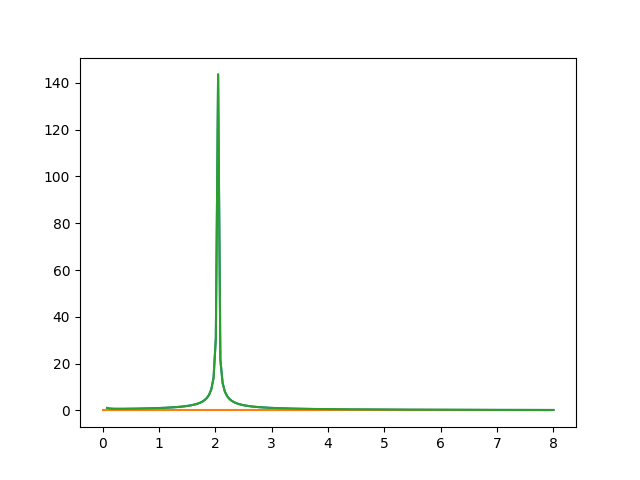
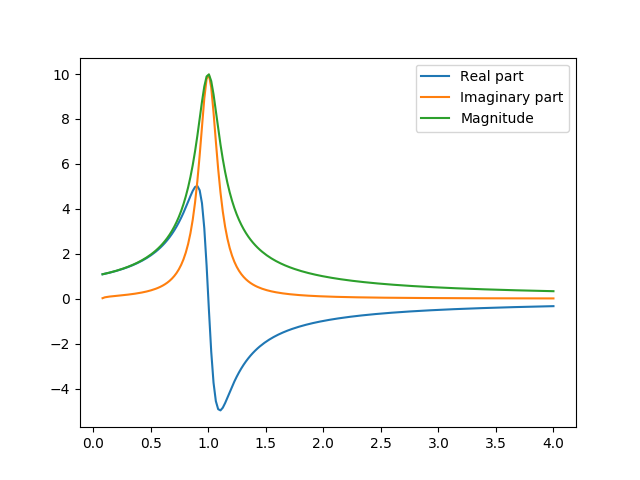
breit-wigner checked
* Closes #2.

diff --git a/amplitudes/breit_wigner.py b/amplitudes/breit_wigner.py
@@ -75,10 +75,10 @@ class BreitWigner:
         if spin > 2:
             raise Exception(f"BELLEbreitWigner::BELLEbreitWigner(...): ERROR: Spin > 2 not supported yet")
 
-    def eval(self, s12):
+    def eval(self, s12, constant_gamma=True):
         """Evaluate the Breit-Wigner function."""
         m12 = np.power(s12, 1/2)
-        self._check_condition_daughter_masses(m12, self.daughter_mass1, self.daughter_mass2)
+        # self._check_condition_daughter_masses(m12, self.daughter_mass1, self.daughter_mass2)
 
         # ToDo: check why is this needed
         # if (m12 > self.mother_mass - self.bachelor_mass) or (m12 < self.daughter_mass2 + self.daughter_mass2):
@@ -120,8 +120,11 @@ class BreitWigner:
             # fd = np.power((np.power(xD-3., 2) + 9 * xD) / (np.power(x_abc-3., 2) + 9 * x_abc), .5)
             fd = np.power(1. / (np.power(x_abc-3., 2) + 9 * x_abc), .5)
 
-        gamma = self.width * self.mass / m12 * np.power(fr, 2) * np.power(p_ab / p_r, 2 * self.spin + 1)
-
+        # Testing purposes
+        if constant_gamma:
+            gamma = self.width * self.mass / m12 * np.power(fr, 2) * np.power(p_ab / p_r, 2 * self.spin + 1)
+        else:
+            gamma = 1
         # Use this for complex BreitWigner:
         ret_val = complex(fr * fd, 0.) / complex(np.power(self.mass, 2) - s12, - self.mass * gamma)
 
@@ -139,7 +142,6 @@ class BreitWigner:
 def plot_breit_wigner():
     """Plot the BreitWigner function."""
 
-    test_mass = 1
 
     m_dc = 1.86958
     m_pi = 0.13957
@@ -151,10 +153,6 @@ def plot_breit_wigner():
     daughter_mass1 = fs_masses[1]
     daughter_mass2 = fs_masses[2]
 
-    breit_wigner = BreitWigner(name='TestBreitWigner', mass=test_mass, width=1, spin=0,
-                               mother_mass=m_dc,
-                               bachelor_mass=bachelor_mass,
-                               daughter_mass1=daughter_mass1, daughter_mass2=daughter_mass2)
 
     test_points = np.linspace(0, 4, 200)
     val_points = list()
@@ -164,7 +162,13 @@ def plot_breit_wigner():
 
     breit_wigner_points_amplitude = list()
 
+    test_mass = 1
+
     for val in test_points:
+        breit_wigner = BreitWigner(name='TestBreitWigner', mass=test_mass, width=0.1, spin=0,
+                                   mother_mass=m_dc,
+                                   bachelor_mass=bachelor_mass,
+                                   daughter_mass1=daughter_mass1, daughter_mass2=daughter_mass2)
         ret_val = breit_wigner.eval(val)
 
         breit_wigner_points_real.append(ret_val.real)
